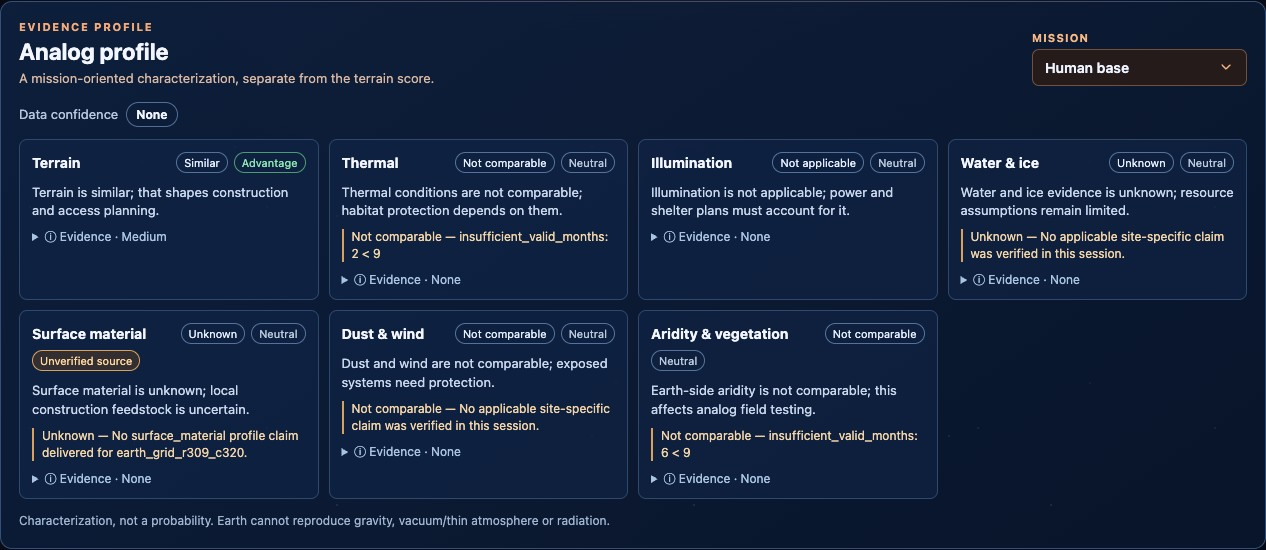
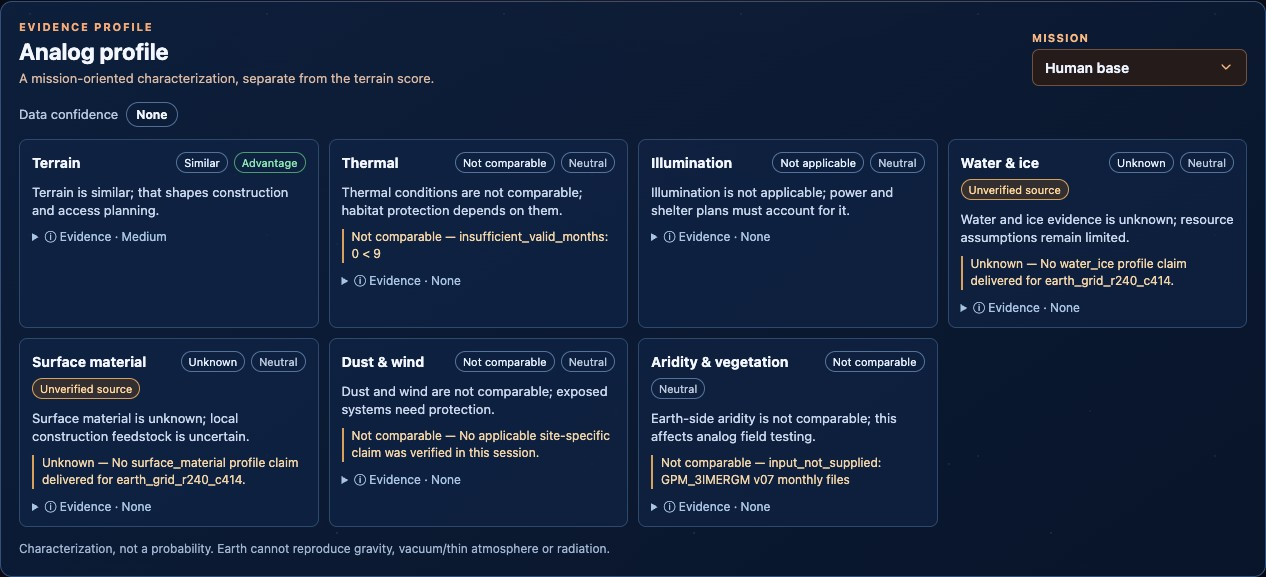
fix(ui): remove T-01 from Mars selection and showcase Phoenix

diff --git a/frontend/src/main.tsx b/frontend/src/main.tsx
@@ -57,8 +57,9 @@ function App() {
   useEffect(() => {
     const c = new AbortController();
     getJson<{ targets: Target[]; data_status: string }>(`${BASE}/api/v1/targets`, c.signal).then(data => {
-      setTargets(data.targets); setDataStatus(data.data_status);
-      const first = data.targets.find(t => t.status === "scorable") ?? data.targets[0];
+      const availableTargets = data.targets.filter(t => !(t.body === "mars" && t.alias === "T-01"));
+      setTargets(availableTargets); setDataStatus(data.data_status);
+      const first = availableTargets.find(t => t.status === "scorable") ?? availableTargets[0];
       if (first) { setTargetId(first.alias); setScale(first.scales.includes("regional") ? "regional" : "local"); }
     }).catch(e => { if (!c.signal.aborted) setError(`Could not load targets: ${e}`); });
     return () => c.abort();

diff --git a/docs/capture_screenshots.py b/docs/capture_screenshots.py
@@ -48,7 +48,9 @@ with sync_playwright() as p:
             page.wait_for_function("document.querySelector('.app-shell').dataset.body === 'mars'")
             comparison_ready(page)
         page.get_by_role('combobox',name='TARGET REGION',exact=True).click()
-        page.get_by_role('option',name=re.compile(r'^T-01\b')).click()
+        assert page.get_by_role('option',name=re.compile(r'^T-01\b')).count() == 0
+        assert page.get_by_role('option',name=re.compile(r'^T-05\b')).count() == 1
+        page.get_by_role('option',name=re.compile(r'^T-04\b')).click()
         comparison_ready(page)
         capture(page,'terrain-comparison.jpg')
 
